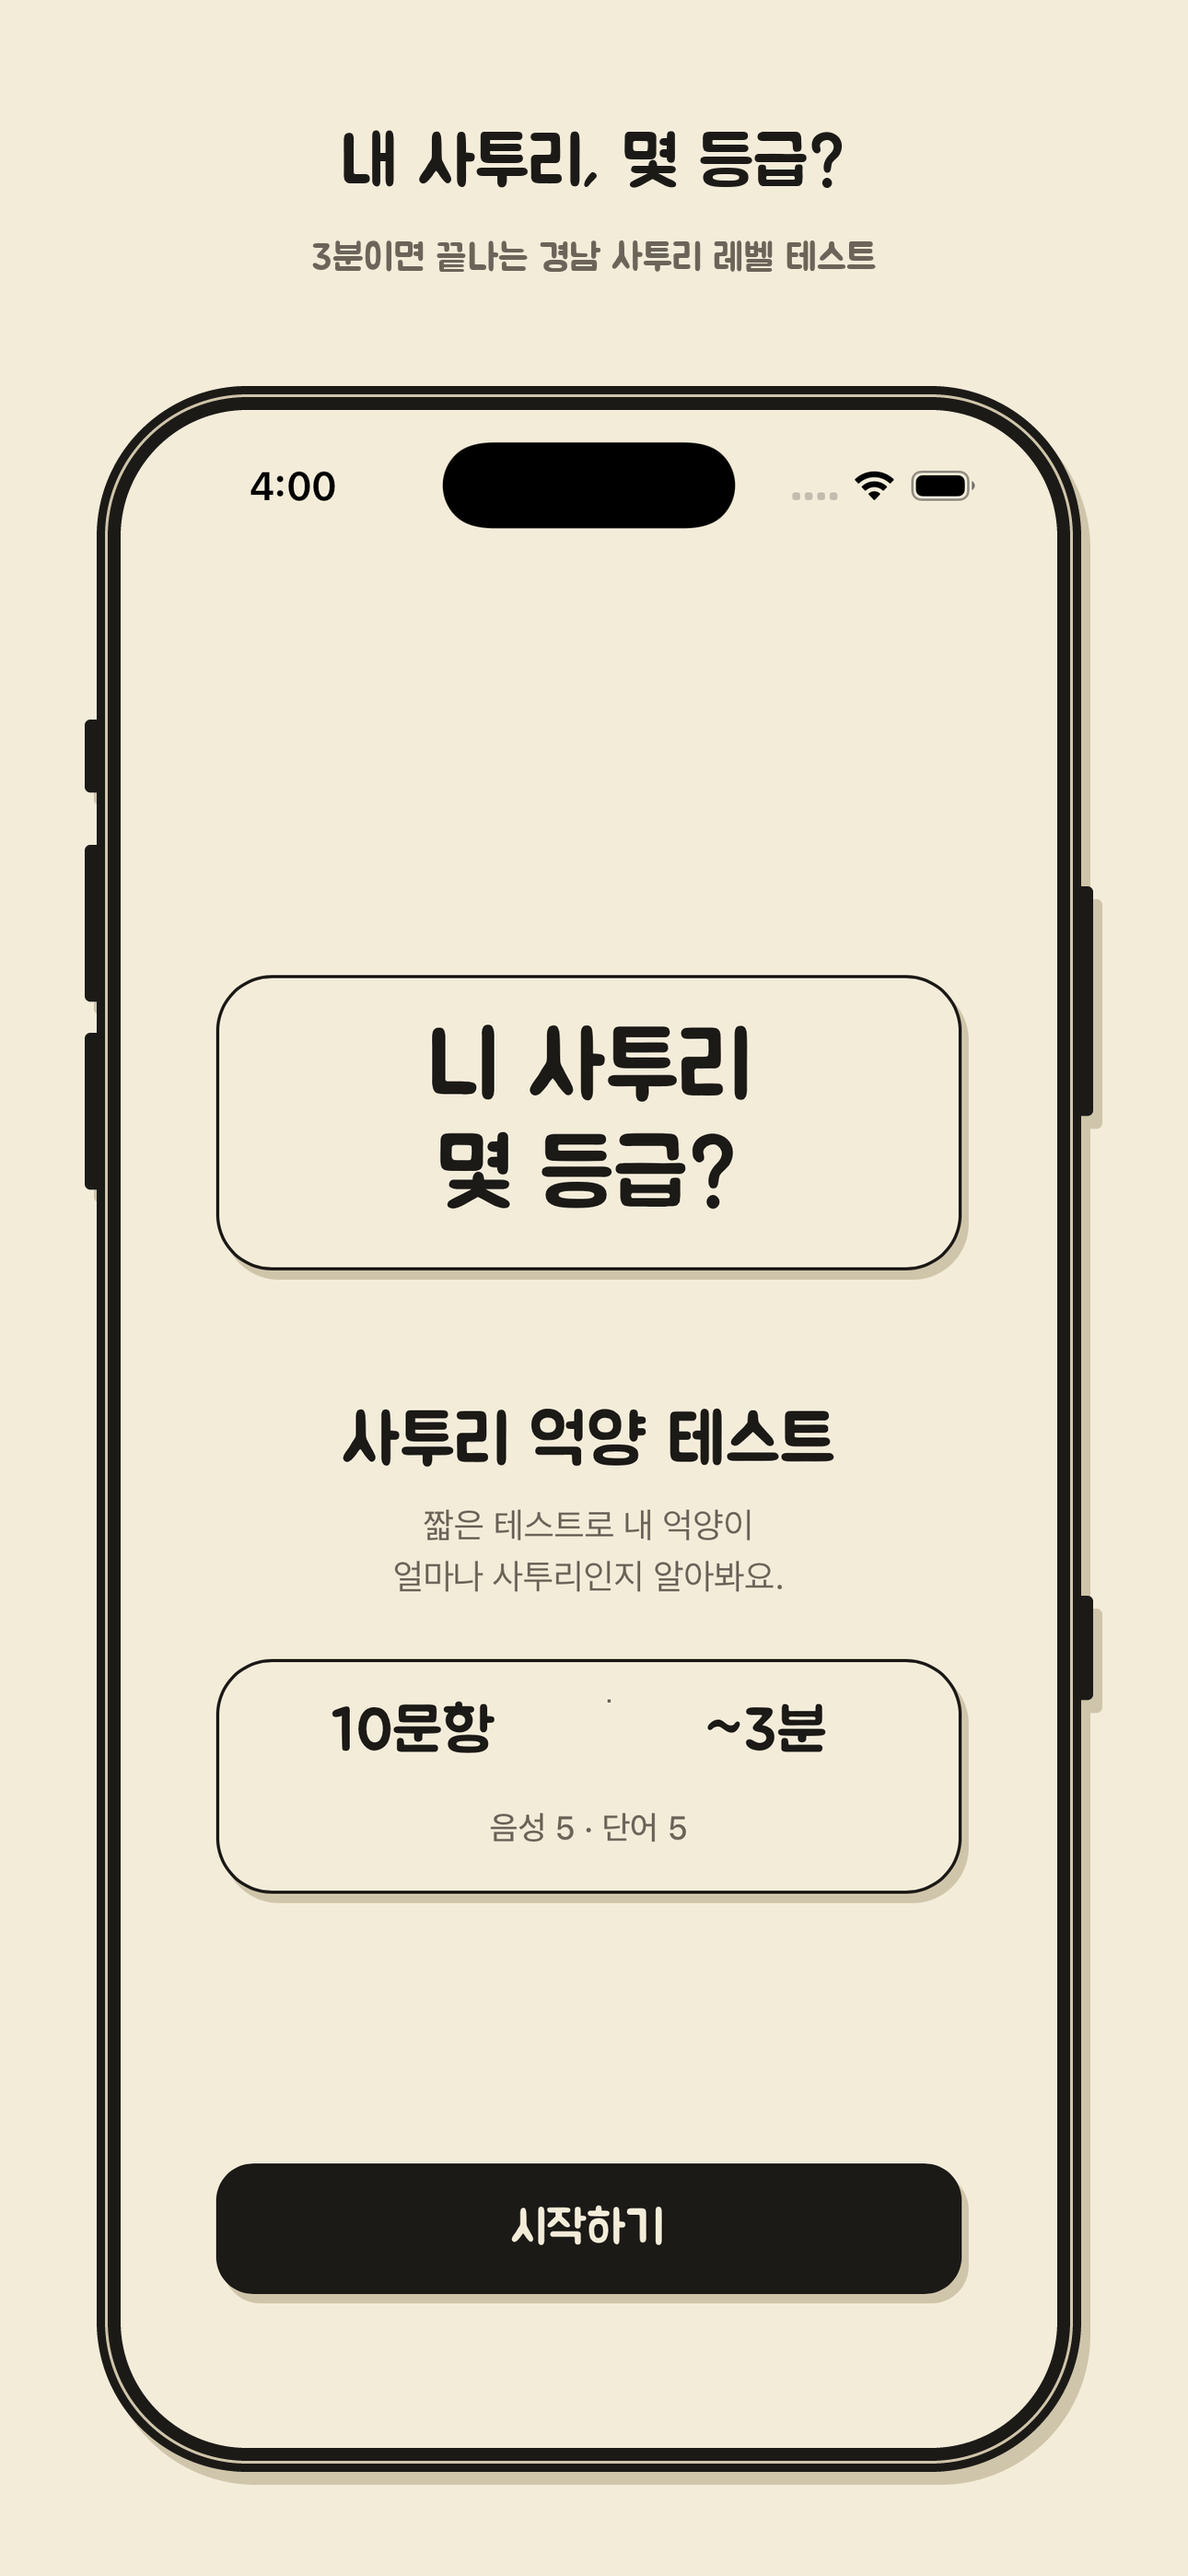
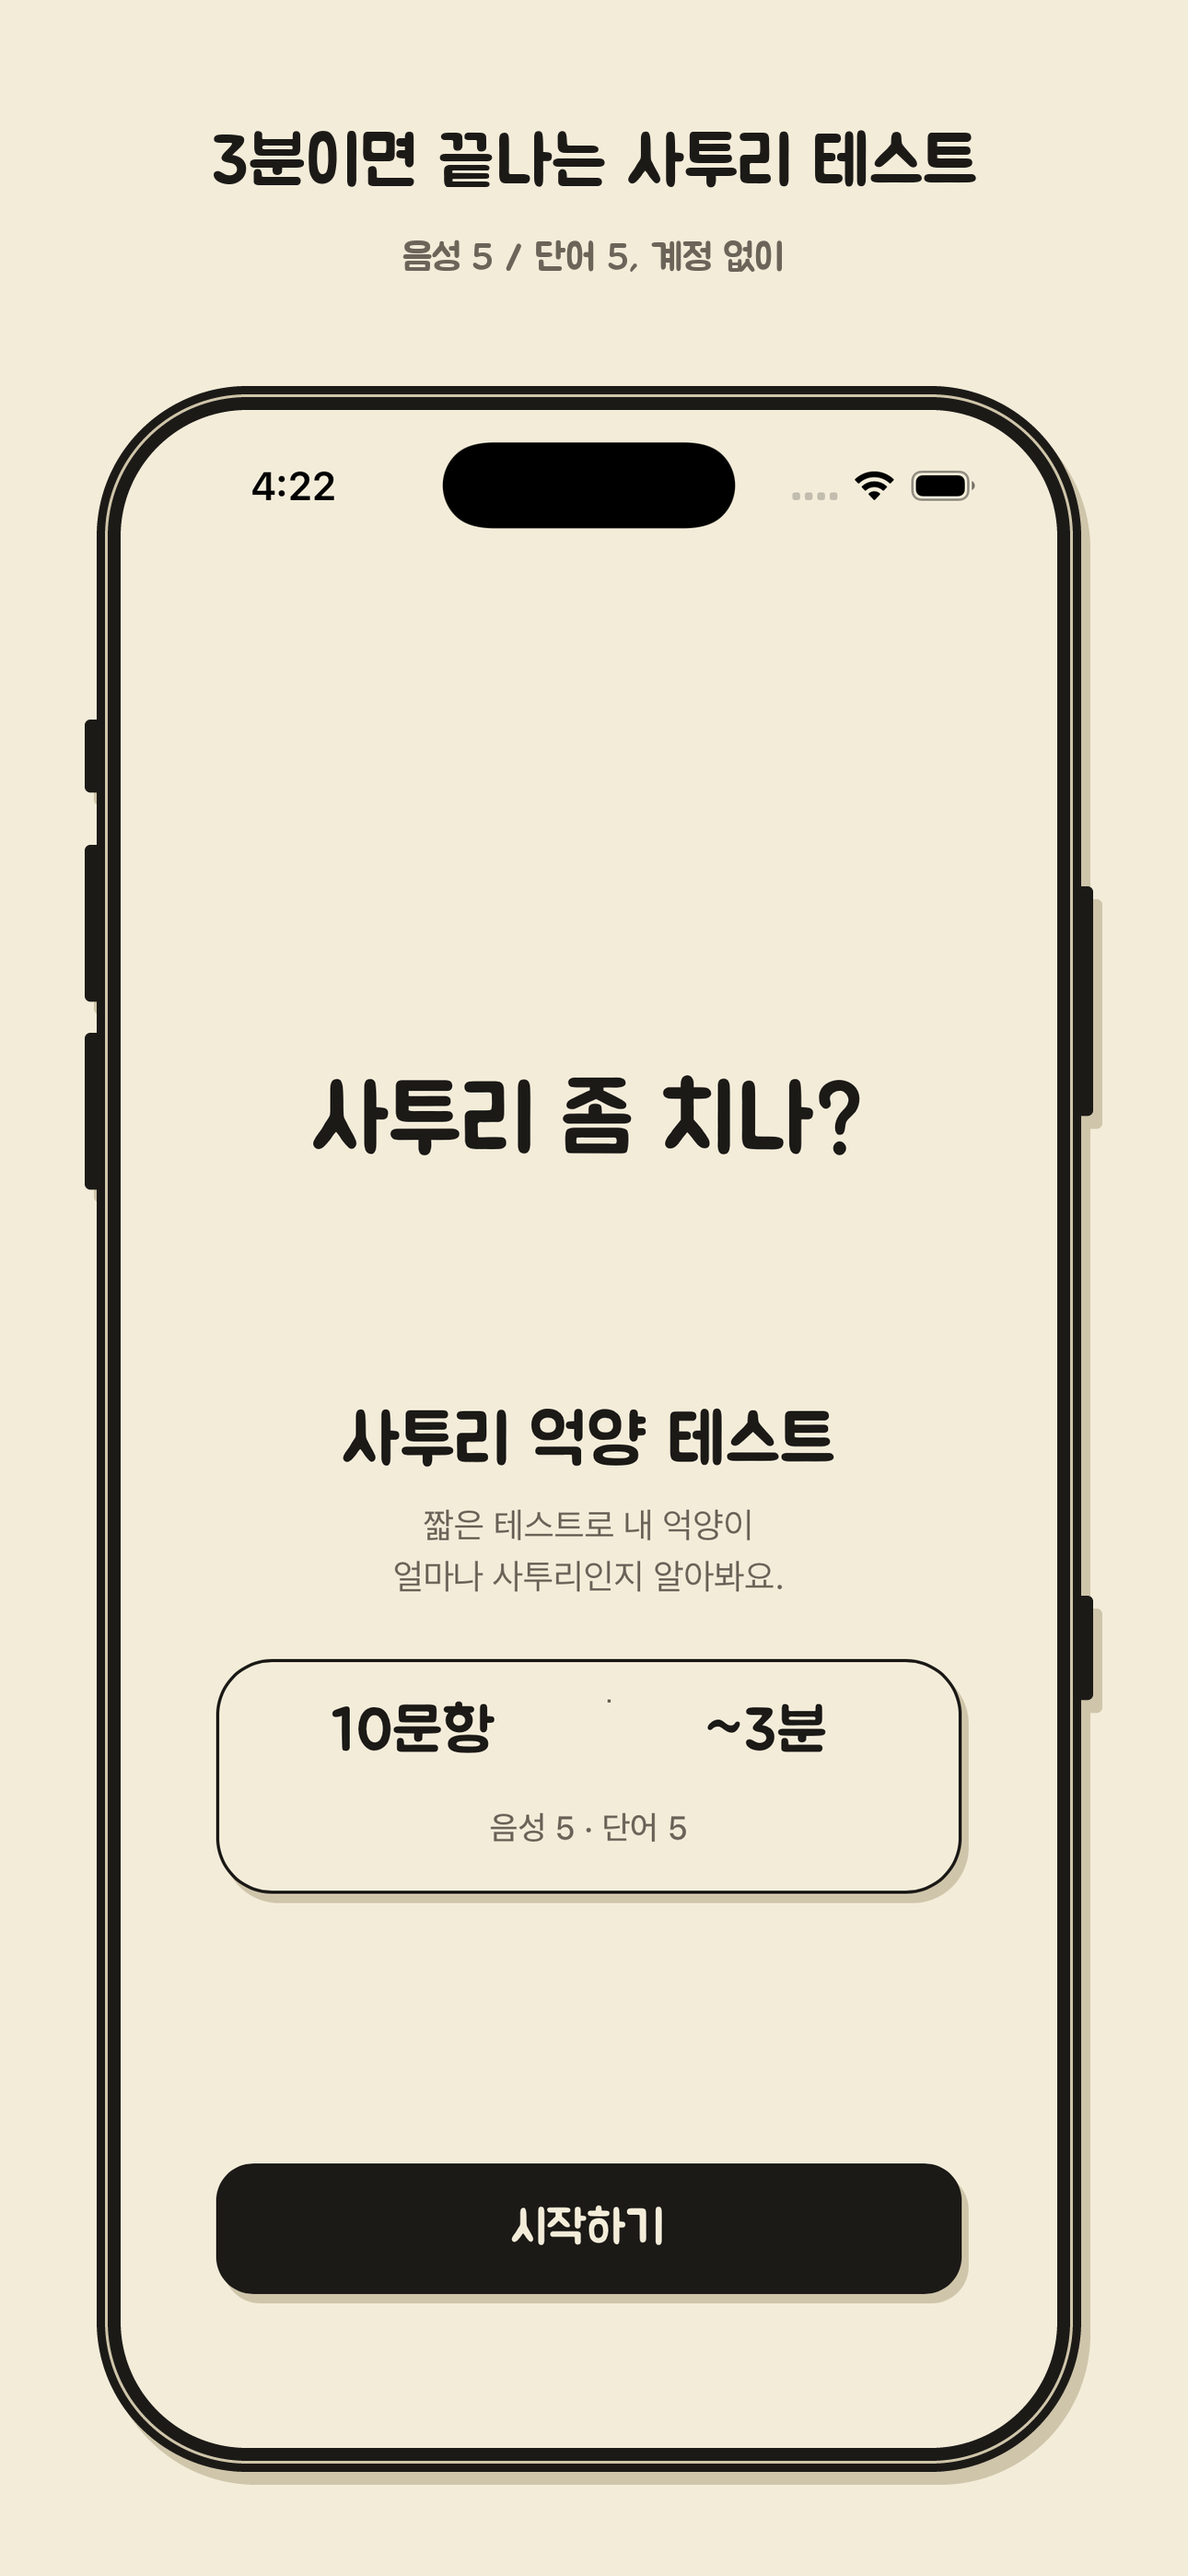
KAN-178 텍스트 히어로 문구·형태 조정 - "사투리 좀 치나?", 종이 조각 테두리 제거, Play 인트로 캡션 교체
- 인트로 히어로 문구 변경, .text-hero에서 테두리·그림자·면 제거(잉크 글자만)
- Play 스크린샷 01-intro 캡션이 화면 문구와 겹쳐 "3분이면 끝나는 사투리 테스트"로 교체
- 캡션 구분자는 슬래시 - Jua에 가운뎃점이 없어 두부로 그려졌다. build.py에 글리프 검사 추가
- 인트로 원본 캡처(Android·iOS) 재촬영, 프레임 재생성

Claude-Session: https://claude.ai/code/session_01Nud2Q8pYYmbEKkf6aeyY5Q

Changed region(s): [[0.186, 0.3734, 0.8372, 0.4979], [0.186, 0.0311, 0.8062, 0.1245], [0.2481, 0.1867, 0.2791, 0.2178]]

diff --git a/web/src/ui/components.css b/web/src/ui/components.css
@@ -289,7 +289,7 @@
  * 요소가 오르내리지 않는다.
  *
  * 인트로·대기 화면은 그림 대신 `.text-hero`가 든다 (KAN-178). 슬롯 높이를 건드리지 않은
- * 것은 의도다 — 글자 조각이 그림보다 낮아도 아래 제목·카드는 있던 자리에 그대로 남는다.
+ * 것은 의도다 — 글자 한 줄이 그림보다 낮아도 아래 제목·카드는 있던 자리에 그대로 남는다.
  */
 .illustration {
   display: flex;
@@ -307,24 +307,20 @@
 }
 
 /*
- * 그림 자리에 서는 글자 한 줄 (KAN-178). 종이 조각 한 장이다 — 테두리 1.5px·크림 면·오프셋
- * 그림자는 대사 카드(`.prompt-card`)와 같은 값을 쓴다. 이 화면에서 새로 만든 모양이 아니라
- * 이미 있는 종이의 두께를 그대로 빌려 와야 한 화면에 종이가 두 종류로 보이지 않는다.
+ * 그림 자리에 서는 글자 한 줄 (KAN-178). 처음에는 대사 카드와 같은 종이 조각(테두리 1.5px·
+ * 크림 면·오프셋 그림자)에 얹었는데, 한 화면에 종이가 두 장 겹쳐 보였다 — 바로 아래 대사
+ * 카드와 같은 두께라 히어로가 카드의 예고편처럼 읽혔다. 면을 걷어내고 잉크 글자만 남긴다.
  *
  * Jua 40(`--text-display`)은 팔레트에서 가장 큰 글자다. 바로 아래 제목이 30·26이라
  * 이보다 작으면 히어로가 아니라 제목이 둘인 화면이 된다.
  *
- * `keep-all`은 한국어에서 필수다 — 기본값이면 "등급?"이 낱말 가운데서 잘린다. `balance`는
- * 두 줄로 넘어갈 때 줄 길이를 맞춘다("니 사투리 / 몇 등급?"). 지원하지 않는 브라우저는
- * 평범하게 흘려 담을 뿐이라 깨지지 않는다.
+ * `keep-all`은 한국어에서 필수다 — 기본값이면 낱말 가운데서 잘린다. `balance`는 두 줄로
+ * 넘어갈 때 줄 길이를 맞춘다. 지원하지 않는 브라우저는 평범하게 흘려 담을 뿐이라 깨지지
+ * 않는다. 좌우 여백만 남긴 것은 긴 문구가 화면 가장자리에 붙지 않게 하려는 것이다.
  */
 .text-hero {
   margin: 0;
-  padding: var(--space-4) var(--space-6);
-  border: 1.5px solid var(--color-border);
-  border-radius: var(--radius-xl);
-  background: var(--color-card);
-  box-shadow: var(--shadow-prompt);
+  padding: 0 var(--space-6);
   font-family: var(--font-display);
   font-size: var(--text-display);
   font-weight: var(--weight-normal);

diff --git a/web/src/intro/IntroScreen.tsx b/web/src/intro/IntroScreen.tsx
@@ -110,11 +110,11 @@ export function IntroScreen({
       <div className="screen__body">
         {/*
           종이 일러스트(확성기를 든 사람)를 걷어내고 글자를 세웠다 (KAN-178). 그림은 이 앱이
-          무엇을 하는 곳인지 말하지 않았다 — 첫 화면에서 사용자가 알아야 할 것은 "여기서
-          내 사투리 등급이 나온다"이고, 그건 그리는 것보다 적는 편이 빠르다.
+          무엇을 하는 곳인지 말하지 않았다 — 첫 화면은 사용자에게 말을 걸어야 하고, 그건
+          그리는 것보다 적는 편이 빠르다.
         */}
         <div className="illustration illustration--intro">
-          <TextHero>니 사투리 몇 등급?</TextHero>
+          <TextHero>사투리 좀 치나?</TextHero>
         </div>
 
         <div style={{ display: 'flex', flexDirection: 'column', gap: 'var(--space-2)' }}>

diff --git a/web/src/intro/IntroScreen.test.tsx b/web/src/intro/IntroScreen.test.tsx
@@ -126,10 +126,10 @@ describe('IntroScreen — 마이크 게이트 (KAN-56)', () => {
 })
 
 describe('IntroScreen — 텍스트 히어로 (KAN-178)', () => {
-  it('그림 대신 "니 사투리 몇 등급?"이 서고, 제목은 그대로 남는다', () => {
+  it('그림 대신 "사투리 좀 치나?"가 서고, 제목은 그대로 남는다', () => {
     render(<IntroScreen requestWebPermission={permissionStub('granted')} />)
 
-    expect(screen.getByText('니 사투리 몇 등급?')).toBeInTheDocument()
+    expect(screen.getByText('사투리 좀 치나?')).toBeInTheDocument()
     // 히어로는 장식이라 제목을 대신하지 않는다 — 화면 이름은 여전히 h1이 말한다
     expect(screen.getByRole('heading', { level: 1, name: '사투리 억양 테스트' })).toBeInTheDocument()
   })

diff --git a/assets/screenshots/build.py b/assets/screenshots/build.py
@@ -46,7 +46,7 @@ PAPER_SHADOW = (0xCF, 0xC5, 0xAA)  # 오프셋 그림자 (3px 4px 0)
 
 # 화면 id → (헤드라인, 보조 문구). **여기만 고치면 네 규격에 한꺼번에 반영된다.**
 CAPTIONS = {
-    "01-intro": ("내 사투리, 몇 등급?", "3분이면 끝나는 경남 사투리 레벨 테스트"),
+    "01-intro": ("3분이면 끝나는 사투리 테스트", "음성 5 / 단어 5, 계정 없이"),
     "02-recording": ("말해보면 곡선이 그려져요", "억양을 실시간 피치 곡선으로"),
     "03-vocab": ("이 말, 무슨 뜻일까?", "경남 토박이만 아는 단어 문제"),
     "04-result": ("5등급 중 당신은?", "결과 카드로 친구에게 공유"),
@@ -153,10 +153,37 @@ def rounded_mask(w: int, h: int, radius: int, inset: int = 0) -> Image.Image:
     return big.resize((w, h), Image.BOX)
 
 
+def assert_glyphs(text: str) -> None:
+    """Jua에 없는 글자를 잡는다.
+
+    Pillow는 글리프가 없으면 조용히 두부(□)를 그린다 — 검증은 전부 통과하고 스토어에 걸린
+    그림에서만 보인다. 실제로 `음성 5 · 단어 5`의 가운뎃점(U+00B7)이 이렇게 새어 나갔다.
+    Jua는 한글·라틴·숫자와 기본 문장부호만 가진 글꼴이라, 문구를 고칠 때마다 여기서 막는다.
+    """
+    if _JUA_CMAP is None:  # fontTools가 없는 환경에서는 검사를 건너뛴다
+        return
+    missing = sorted({ch for ch in text if ch != " " and ord(ch) not in _JUA_CMAP})
+    if missing:
+        shown = ", ".join(f"{ch!r}(U+{ord(ch):04X})" for ch in missing)
+        raise SystemExit(f"Jua에 없는 글자가 캡션에 있다: {shown} — 문구: {text!r}")
+
+
+def _load_jua_cmap() -> set[int] | None:
+    try:
+        from fontTools.ttLib import TTFont  # 선택 의존성
+    except ImportError:
+        return None
+    return set(TTFont(str(FONT_JUA)).getBestCmap())
+
+
+_JUA_CMAP = _load_jua_cmap() if FONT_JUA.exists() else None
+
+
 def fit_font(text: str, size: int, max_w: float) -> ImageFont.FreeTypeFont:
     """max_w를 넘으면 글자를 줄인다 — 잘린 문구가 스토어에 걸리는 게 최악이다."""
     if not FONT_JUA.exists():
         raise SystemExit(f"Jua 폰트가 없다: {FONT_JUA}")
+    assert_glyphs(text)
     while True:
         font = ImageFont.truetype(str(FONT_JUA), size)
         if font.getlength(text) <= max_w or size <= 16:

diff --git a/docs/wiki/app-icon-assets.md b/docs/wiki/app-icon-assets.md
@@ -220,7 +220,10 @@ xcrun simctl io booted screenshot assets/screenshots/raw/ios/01-intro.png
 - **결과 화면 등급 통일** — Android·iOS 결과 캡처가 서로 다른 등급이면 스토어에서 같은 앱으로 안 읽혀, iOS 쪽을 다시 찍어 둘 다 명예주민으로 맞췄다.
 - **Android 상태바·내비게이션 바는 자르지 않는다** — Play가 허용하고, 자르기 시작하면 기기마다 기준이 갈린다.
 - **iOS 캡처의 서체를 Android와 맞췄다** (2026-09-03) — 녹음 캡처의 대사 "밥 뭇나?"와 타이머만 iOS가 시스템 서체였다. 두 캡처가 스토어에 나란히 서면 같은 앱으로 안 읽히는 자리라 Jua를 번들하고(`ios-port.md` §3) `raw/ios/02-recording.png`를 다시 찍었다. 나머지 셋은 웹 화면이라 처음부터 Jua였다.
-- **인트로·분석 대기 화면의 일러스트를 텍스트 히어로로 갈았다** (2026-09-03) — 오려 낸 종이 그림(확성기 든 사람·계단)이 스토어 캡처 크기로 줄면 선이 뭉개져 무엇을 그린 것인지 읽히지 않았고, 읽히더라도 앱이 무엇을 하는 곳인지는 말하지 않았다. 같은 자리에 Jua 40 잉크 한 줄을 세운다 — 인트로는 `니 사투리 몇 등급?`, 대기 화면은 `분석 중입니다`. 슬롯 높이(192·176)는 그대로라 아래 요소는 움직이지 않고, `raw/{android,ios}/01-intro.png`를 다시 찍어 프레임을 재생성했다.
+- **인트로·분석 대기 화면의 일러스트를 텍스트 히어로로 갈았다** (2026-09-03) — 오려 낸 종이 그림(확성기 든 사람·계단)이 스토어 캡처 크기로 줄면 선이 뭉개져 무엇을 그린 것인지 읽히지 않았고, 읽히더라도 앱이 무엇을 하는 곳인지는 말하지 않았다. 같은 자리에 Jua 40 잉크 한 줄을 세운다 — 인트로는 `사투리 좀 치나?`, 대기 화면은 `분석 중입니다`. 슬롯 높이(192·176)는 그대로라 아래 요소는 움직이지 않고, `raw/{android,ios}/01-intro.png`를 다시 찍어 프레임을 재생성했다.
+- **텍스트 히어로에서 종이 조각을 걷어냈다** (2026-09-03) — 히어로가 대사 카드와 같은 테두리·면·그림자를 쓰니 한 화면에 종이가 두 장 겹쳐, 히어로가 아래 카드의 예고편처럼 읽혔다. 면을 지우고 잉크 글자만 남긴다. 문구도 `니 사투리 몇 등급?`에서 `사투리 좀 치나?`로 바꿨다 — 등급을 먼저 말하는 대신 말을 건다.
+- **Play `01-intro` 캡션이 화면 문구와 겹치지 않게 갈았다** (2026-09-03) — 옛 캡션 `내 사투리, 몇 등급?`이 프레임 안 화면의 히어로와 같은 말을 두 번 했다. `3분이면 끝나는 사투리 테스트` / `음성 5 / 단어 5, 계정 없이`로 바꿔 캡션은 화면이 말하지 않는 것(길이·구성·가입 없음)만 말한다.
+- **Jua에 없는 글자는 `build.py`가 막는다** (2026-09-03) — 새 캡션의 가운뎃점(U+00B7)이 Jua에 없어 두부(□)로 그려졌는데 검증 14개가 전부 통과했다. Pillow는 글리프가 없어도 조용히 그린다. `assert_glyphs()`가 캡션 글자를 cmap과 대조해 죽는다(fontTools가 없으면 건너뛴다). 구분자는 슬래시로 갈았다.
 
 ## 7. 이월
 

diff --git a/docs/wiki/design-tokens.md b/docs/wiki/design-tokens.md
@@ -516,19 +516,21 @@ KAN-148의 AC "텍스트 대비 4.5:1"은 이제 예외 없이 지켜진다.
 ### 텍스트 히어로
 
 화면을 여는 자리에 그림 대신 서는 글자 한 줄이다 (`ui/TextHero.tsx`, `.text-hero`). 인트로
-(`니 사투리 몇 등급?`)와 분석 대기 화면(`분석 중입니다`)이 쓴다 — KAN-178에서 두 화면의 종이
+(`사투리 좀 치나?`)와 분석 대기 화면(`분석 중입니다`)이 쓴다 — KAN-178에서 두 화면의 종이
 일러스트를 걷어낸 자리다. 스토어 캡처 크기로 줄면 오려 낸 선이 뭉개져 무엇을 그린 것인지
 읽히지 않았고, 읽히더라도 앱이 무엇을 하는 곳인지는 말하지 않았다.
 
-모양은 대사 카드(`.prompt-card`)에서 그대로 빌린다 — 1.5px 잉크 테두리, 크림 면, `radius-xl`,
-`shadow-prompt`. 한 화면에 종이가 두 종류로 보이지 않으려면 두께와 그늘이 같아야 한다. 글자는
-`font-display` `text-display`(40) 400이다: 바로 아래 제목이 30·26이라 이보다 작으면 히어로가
-아니라 제목이 둘인 화면이 된다.
+**면이 없다.** 처음에는 대사 카드(`.prompt-card`)의 테두리·크림 면·오프셋 그림자를 그대로
+빌렸는데, 히어로 바로 아래에 같은 두께의 카드가 서니 한 화면에 종이가 두 장 겹쳐 보였다 —
+히어로가 카드의 예고편처럼 읽히는 자리다. 테두리·그림자·면을 다 걷고 잉크 글자만 남긴다.
+남긴 것은 좌우 여백(`space-6`)뿐이고, 긴 문구가 화면 가장자리에 붙지 않게 하는 몫이다.
+글자는 `font-display` `text-display`(40) 400이다: 바로 아래 제목이 30·26이라 이보다 작으면
+히어로가 아니라 제목이 둘인 화면이 된다.
 
 기본값이 `aria-hidden`인 이유는 옆에 있는 h1이 이미 화면 이름을 말하기 때문이다. 장식에 라벨을
 붙이면 스크린 리더가 같은 화면을 두 번 소개한다.
 
-바깥 슬롯(`.illustration--intro` 192 · `--waiting` 176)의 높이는 건드리지 않았다. 글자 조각이
+바깥 슬롯(`.illustration--intro` 192 · `--waiting` 176)의 높이는 건드리지 않았다. 글자 한 줄이
 그림보다 낮아도 아래 제목·카드는 있던 자리에 그대로 남는다.
 
 ## 9. 접근성 최소선 검증
